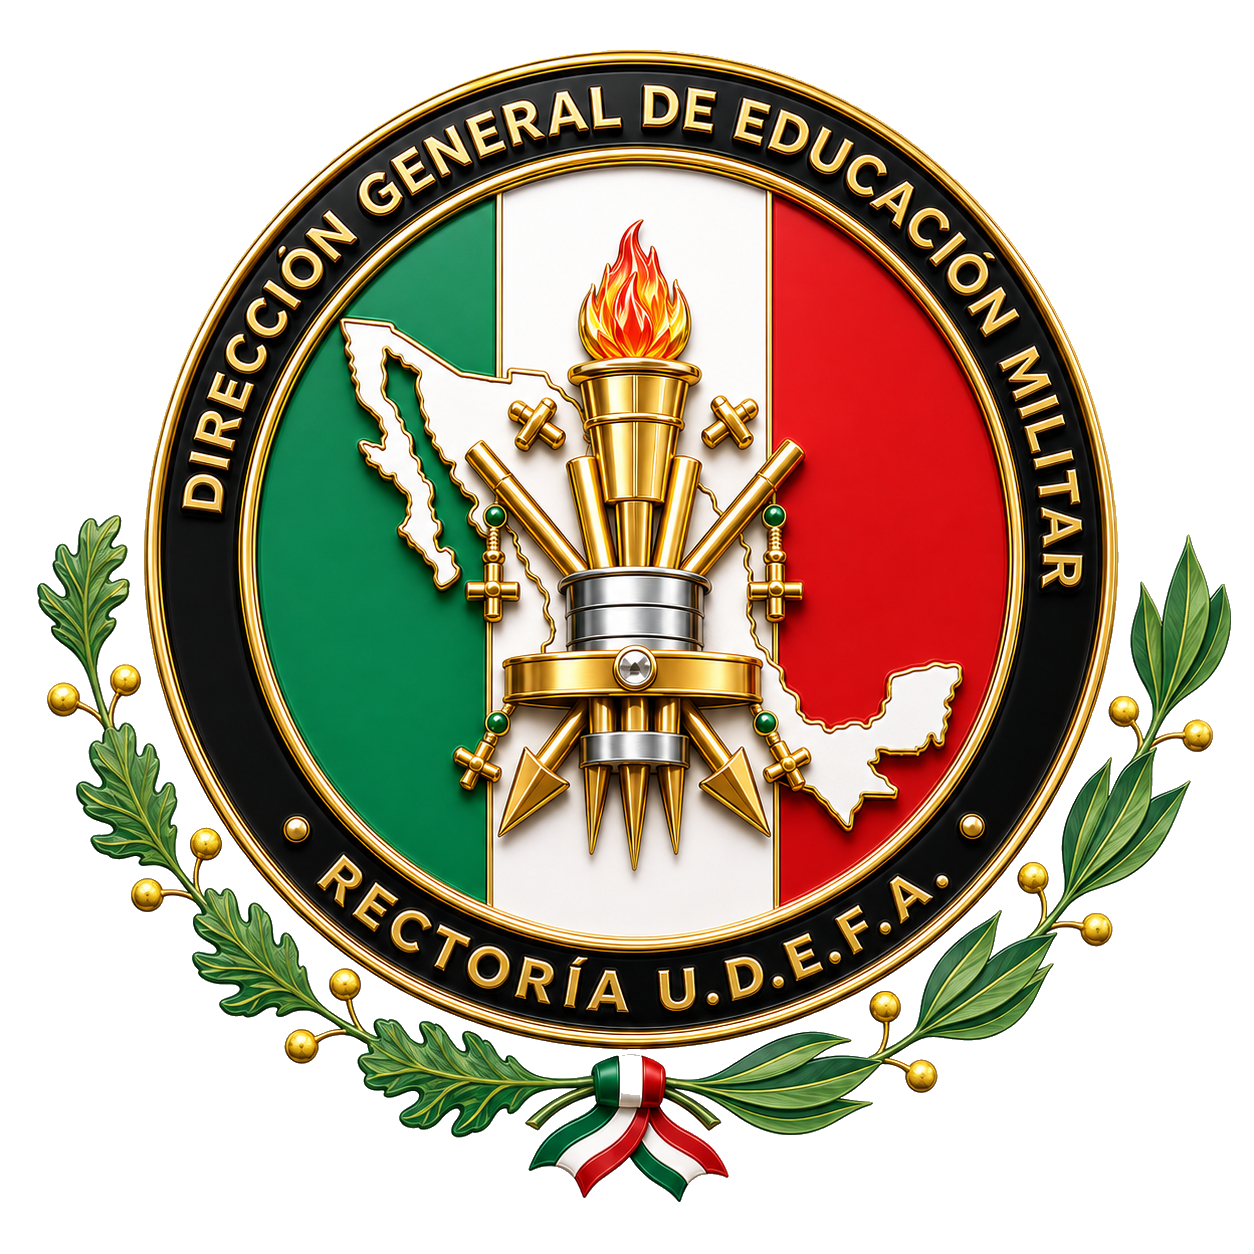
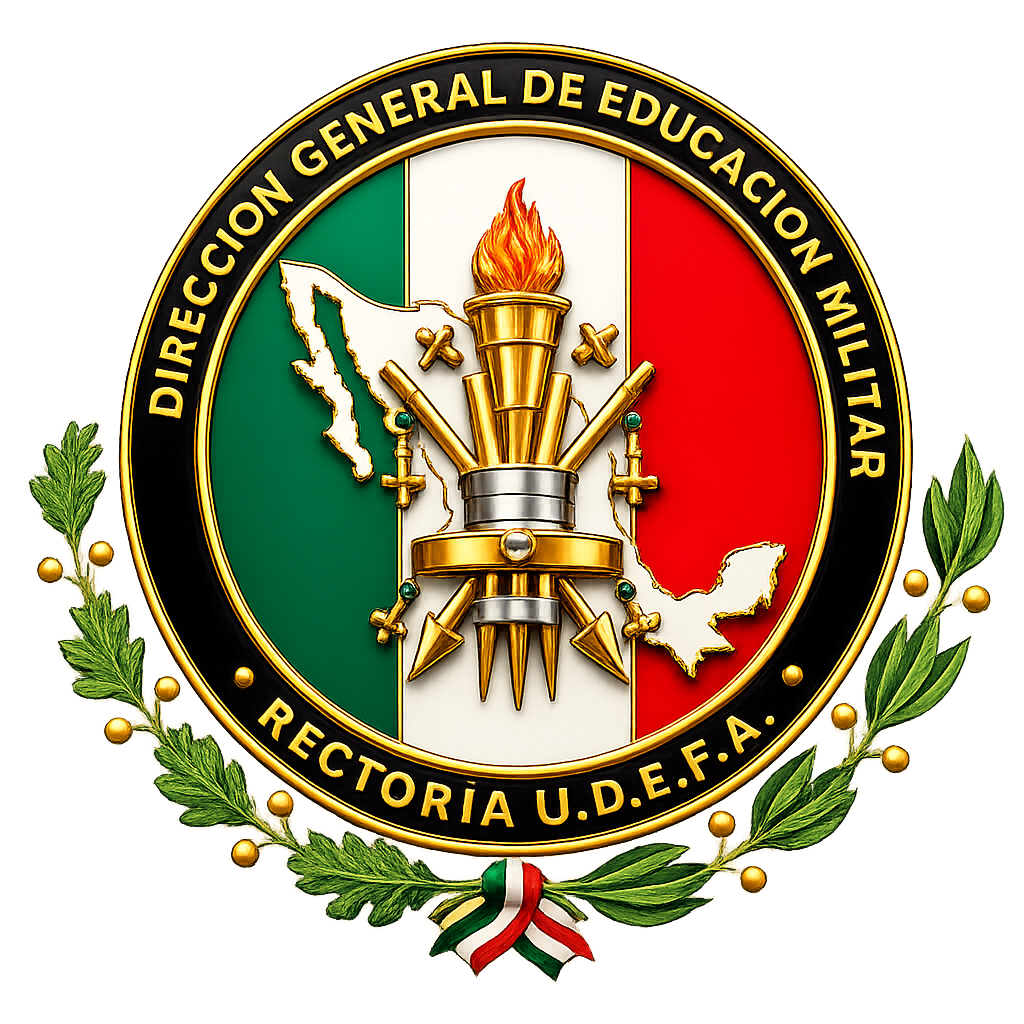
Precios: sello nuevo transparente y color en hero y línea del tiempo
Se reemplaza el sello del hero por la versión con transparencia real (sin halo) y se le quita la sombra CSS. Se da color a las dos secciones que estaban monocromas: los bloques de info del hero (convocatoria dorado, fechas azul, ventaja verde — recuadros neutros, solo el ícono en color) y la línea del tiempo del proceso de admisión (verde, dorado, morado, rojo).

diff --git a/apps/web/src/app/precios/page.tsx b/apps/web/src/app/precios/page.tsx
@@ -37,6 +37,7 @@ const COLOR = {
   azul: { c: '#2563A8', on: '#FFFFFF' },
   morado: { c: '#6B46C1', on: '#FFFFFF' },
   dorado: { c: '#C99A3B', on: '#161513' },
+  rojo: { c: '#DC2626', on: '#FFFFFF' },
 } as const
 
 // Logos oficiales de los métodos de pago (los aportó Carlo; viven en public/pagos/).
@@ -98,7 +99,10 @@ export default function PreciosPage() {
             {/* Callout de convocatoria */}
             <div className="mt-6 rounded-xl border border-accent/40 bg-accent/5 p-5">
               <div className="flex items-center gap-3">
-                <div className="flex h-10 w-10 items-center justify-center rounded-lg bg-accent/15 text-accent">
+                <div
+                  className="flex h-10 w-10 items-center justify-center rounded-lg"
+                  style={{ backgroundColor: COLOR.dorado.c, color: '#FFFFFF' }}
+                >
                   <CalendarClock className="h-5 w-5" />
                 </div>
                 <div>
@@ -124,17 +128,17 @@ export default function PreciosPage() {
             <Image
               src="/udefa-sello.png"
               alt="Sello de la Rectoría U.D.E.F.A. — Dirección General de Educación Militar"
-              width={1254}
-              height={1254}
+              width={1024}
+              height={1024}
               priority
-              className="h-auto w-44 drop-shadow-xl sm:w-52 md:w-64"
+              className="h-auto w-44 sm:w-52 md:w-64"
             />
           </div>
         </div>
 
         {/* Banda informativa */}
         <div className="mt-6 flex items-center gap-2 rounded-lg border border-border bg-card px-4 py-3">
-          <Calendar className="h-4 w-4 shrink-0 text-accent" />
+          <Calendar className="h-4 w-4 shrink-0" style={{ color: COLOR.azul.c }} />
           <p className="text-sm text-muted-foreground">
             Los exámenes Cultural y Psicológico se realizan en{' '}
             <span className="font-semibold text-foreground">abril</span>. Resultados
@@ -143,8 +147,11 @@ export default function PreciosPage() {
         </div>
 
         {/* Ventaja: material que se actualiza al temario vigente */}
-        <div className="mt-4 flex items-start gap-3 rounded-xl border border-accent/40 bg-accent/5 p-4">
-          <div className="flex h-10 w-10 shrink-0 items-center justify-center rounded-lg bg-accent/15 text-accent">
+        <div className="mt-4 flex items-start gap-3 rounded-xl border border-border bg-card p-4">
+          <div
+            className="flex h-10 w-10 shrink-0 items-center justify-center rounded-lg"
+            style={{ backgroundColor: COLOR.verde.c, color: '#FFFFFF' }}
+          >
             <RefreshCw className="h-5 w-5" />
           </div>
           <div>
@@ -300,24 +307,28 @@ export default function PreciosPage() {
         <div className="grid grid-cols-1 gap-4 sm:grid-cols-2 lg:grid-cols-4">
           <Etapa
             icono={<Calendar className="h-5 w-5" />}
+            color={COLOR.verde}
             periodo="Septiembre – Noviembre"
             titulo="No fuiste apto"
             texto="Empieza tu preparación desde hoy y llega con ventaja."
           />
           <Etapa
             icono={<Megaphone className="h-5 w-5" />}
+            color={COLOR.dorado}
             periodo="Diciembre – Marzo"
             titulo="Convocatoria abierta"
             texto="Es tu momento para estudiar y dominar cada tema."
           />
           <Etapa
             icono={<ClipboardCheck className="h-5 w-5" />}
+            color={COLOR.morado}
             periodo="Abril"
             titulo="Exámenes Cultural y Psicológico"
             texto="Pon en práctica todo lo que aprendiste."
           />
           <Etapa
             icono={<Target className="h-5 w-5" />}
+            color={COLOR.rojo}
             periodo="Mayo"
             titulo="Resultados"
             texto="Si no fuiste apto, empieza hoy tu preparación para la siguiente convocatoria."
@@ -521,21 +532,29 @@ function Beneficio({
 
 function Etapa({
   icono,
+  color,
   periodo,
   titulo,
   texto,
 }: {
   icono: React.ReactNode
+  color: ColorPaquete
   periodo: string
   titulo: string
   texto: string
 }) {
   return (
     <div className="rounded-xl border border-border bg-card p-5">
-      <div className="mb-3 flex h-9 w-9 items-center justify-center rounded-lg bg-accent/10 text-accent">
+      <div
+        className="mb-3 flex h-9 w-9 items-center justify-center rounded-lg"
+        style={{ backgroundColor: color.c, color: '#FFFFFF' }}
+      >
         {icono}
       </div>
-      <p className="text-[10px] font-bold uppercase tracking-widest text-accent">
+      <p
+        className="text-[10px] font-bold uppercase tracking-widest"
+        style={{ color: color.c }}
+      >
         {periodo}
       </p>
       <p className="mt-1 text-sm font-semibold text-foreground">{titulo}</p>
